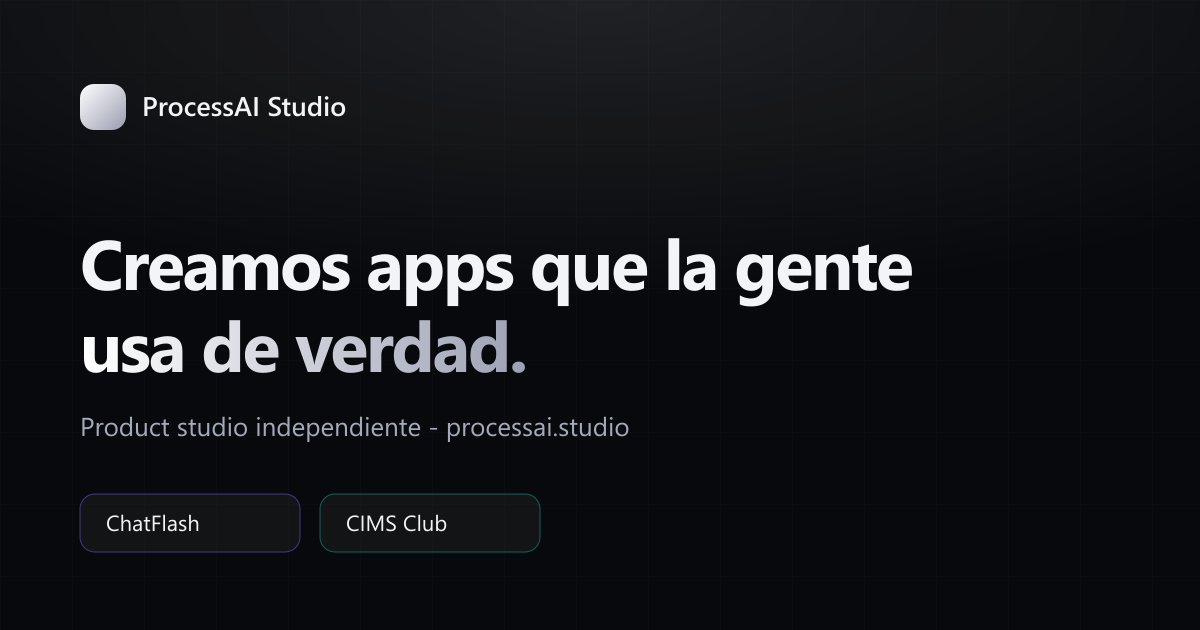
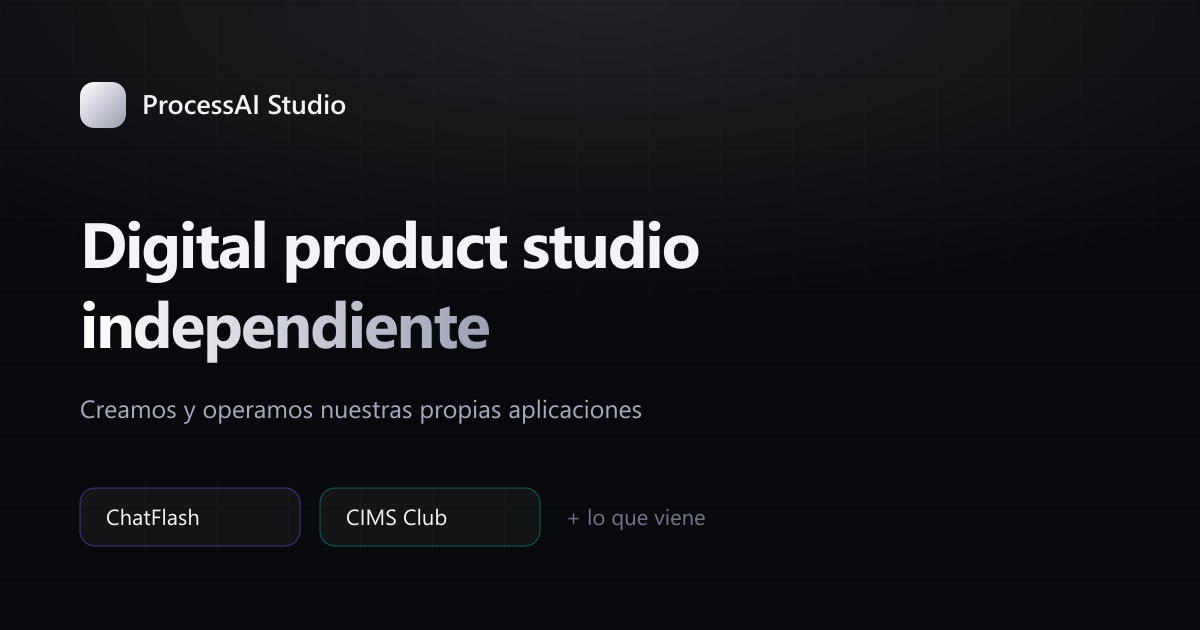
seo: identidad completa de digital product studio
- title/description nuevos en todas las paginas, dentro de limites de Google
- schema Organization enriquecido: alternateName, slogan, knowsAbout y
  owns -> relaciona explicitamente la marca con ChatFlash y CIMS Club
- manifest, iconos PNG (192/512/apple-touch) y og:image con dimensiones y alt
- og.png regenerado con el posicionamiento actual
- /sitemap.xml antiguo -> 301 al sitemap nuevo (Google tenia esa URL guardada)
- corregida marca duplicada en los titulos de /about y /apps

diff --git a/src/data/apps.ts b/src/data/apps.ts
@@ -149,9 +149,9 @@ export const APPS: App[] = [
     status: "live",
     featured: true,
     isNew: true,
-    seoTitle: "ChatFlash — Analiza tu chat de WhatsApp y descubre sus estadísticas",
+    seoTitle: "ChatFlash — Analiza tu chat de WhatsApp",
     seoDescription:
-      "Importa un chat exportado de WhatsApp y obtén tu Wrapped: quién lleva la iniciativa, tiempos de respuesta, horas punta y los premios del chat. El análisis ocurre en tu dispositivo.",
+      "Importa un chat de WhatsApp y obtén tu Wrapped: quién lleva la iniciativa, tiempos de respuesta, horas punta y los premios. Todo en tu dispositivo.",
   },
   {
     name: "CIMS Club",
@@ -232,9 +232,9 @@ export const APPS: App[] = [
     status: "live",
     featured: true,
     isNew: true,
-    seoTitle: "CIMS Club — Tu palmarés de cimas a partir de tu historial de Strava",
+    seoTitle: "CIMS Club — Tu palmarés de cimas con Strava",
     seoDescription:
-      "Conecta Strava y descubre cuántas cimas has coronado: palmarés completo, repeticiones, listas de 3.000 y mapa. Cruzamos tus tracks GPS con más de 600.000 cimas de OpenStreetMap.",
+      "Conecta Strava y descubre cuántas cimas has coronado: palmarés, repeticiones, listas de 3.000 y mapa, cruzando tus tracks con 600.000 cimas.",
   },
 
   /* ──────────────────────────────────────────────────────────────

diff --git a/src/data/site.ts b/src/data/site.ts
@@ -11,9 +11,12 @@ export const SITE = {
   email: "studiosprocessai@gmail.com",
   founders: "Erik Camps y Marçal Ustrell",
   /** Aparece en <title> cuando no hay uno propio. */
-  defaultTitle: "ProcessAI Studio — Creamos apps que la gente usa de verdad",
+  defaultTitle: "ProcessAI Studio — Digital product studio independiente",
+  /** 150-160 caracteres: lo que Google enseña bajo el título. */
   defaultDescription:
-    "Somos un product studio independiente. Creamos, lanzamos y hacemos crecer nuestras propias aplicaciones de internet. Descubre las apps que hemos construido.",
+    "Digital product studio independiente. Creamos, lanzamos y operamos nuestras propias aplicaciones con tecnología e IA: ChatFlash, CIMS Club y las que vienen.",
+  /** Frase de una línea para schema.org y usos internos. */
+  shortPitch: "Creamos y operamos nuestras propias aplicaciones digitales.",
   ogImage: "/og.png",
 } as const;
 
